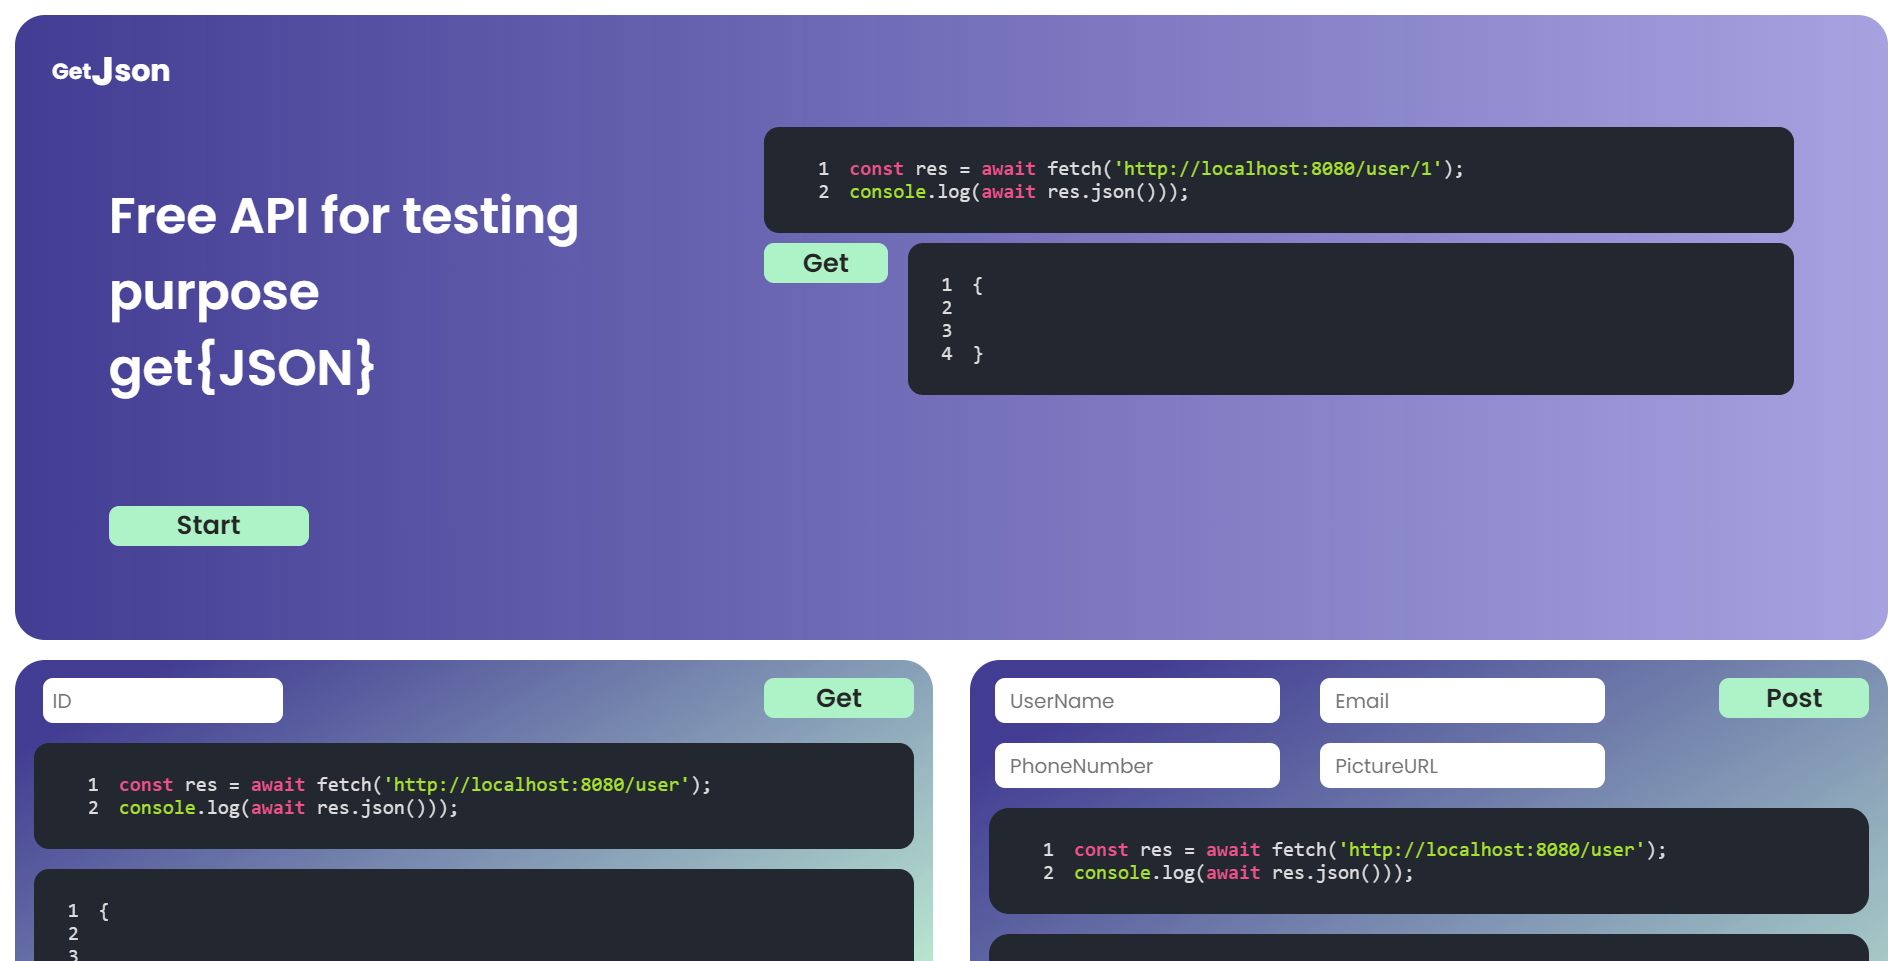
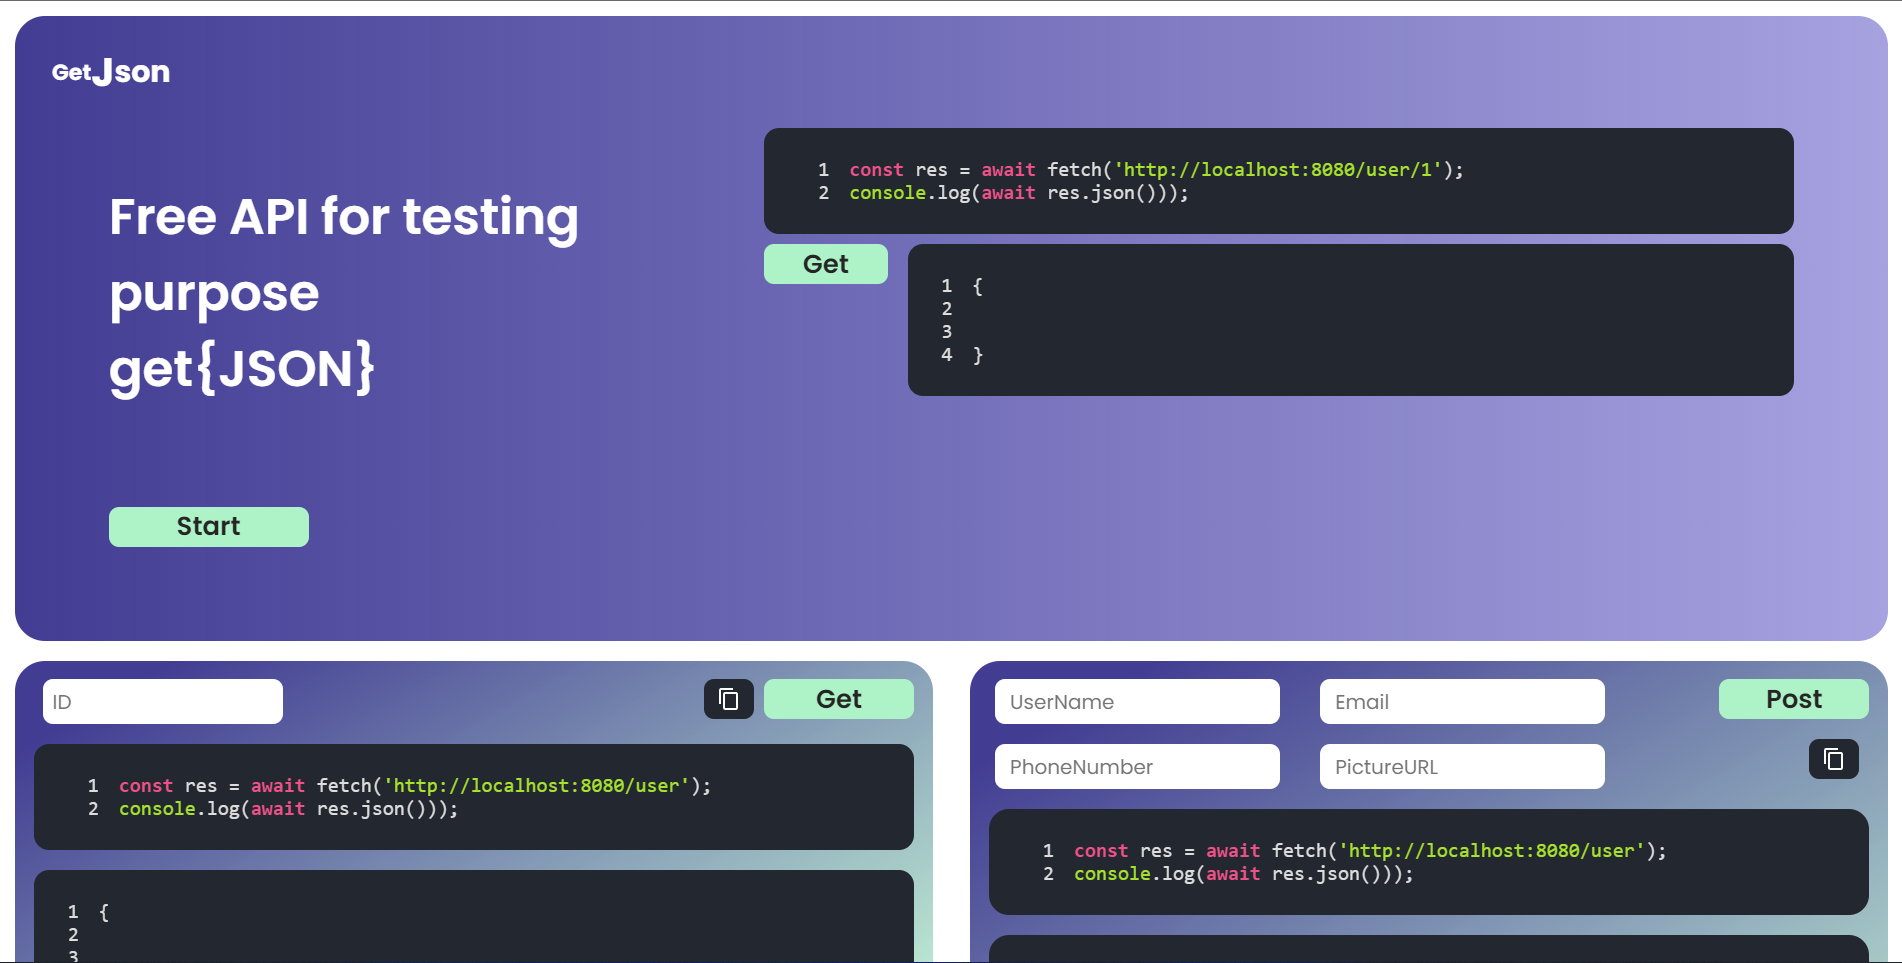
adding new hoem ui & completing ui design for right now

diff --git a/client/src/pages/Index.js b/client/src/pages/Index.js
@@ -10,10 +10,11 @@ const Index = () => {
   const copyURL = () => {
     setUrlCopied(false);
     setUrlCopied(true);
+    navigator.clipboard.writeText(url);
     const displayToast = setTimeout(() => {
       setUrlCopied(false);
       clearTimeout(displayToast);
-    }, 2000);
+    }, 1000);
   };
   return (
     <>
@@ -159,7 +160,7 @@ console.log(await res.json()));`}
             </div>
             <div className="Post_Method_Button_Container">
               <button className="Get_Method_Get_Button">Post</button>
-              <button className="Get_Method_Copy_Button">
+              <button className="Get_Method_Copy_Button" onClick={copyURL}>
                 <span
                   className="iconify"
                   data-icon="mdi:content-copy"
